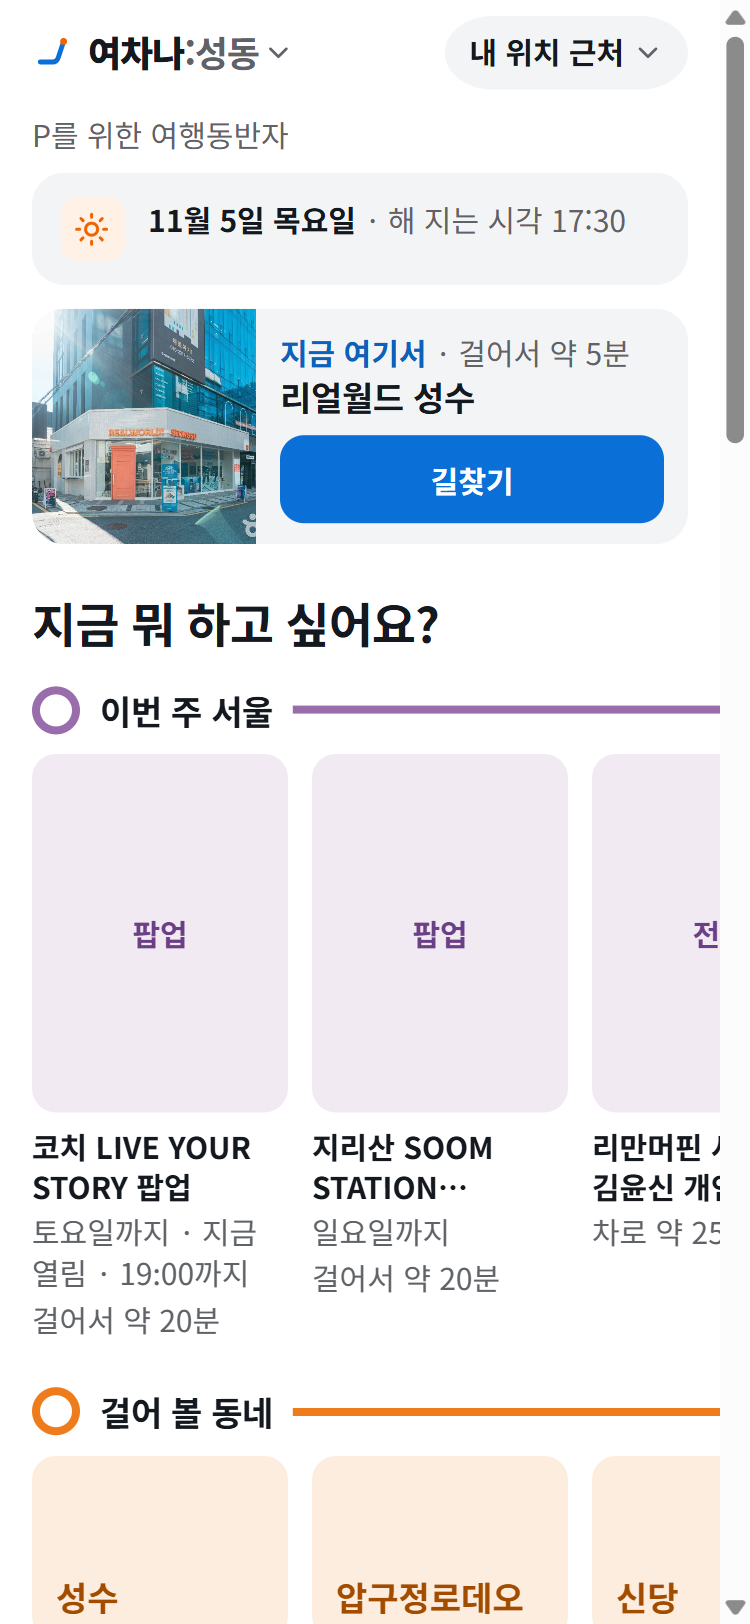
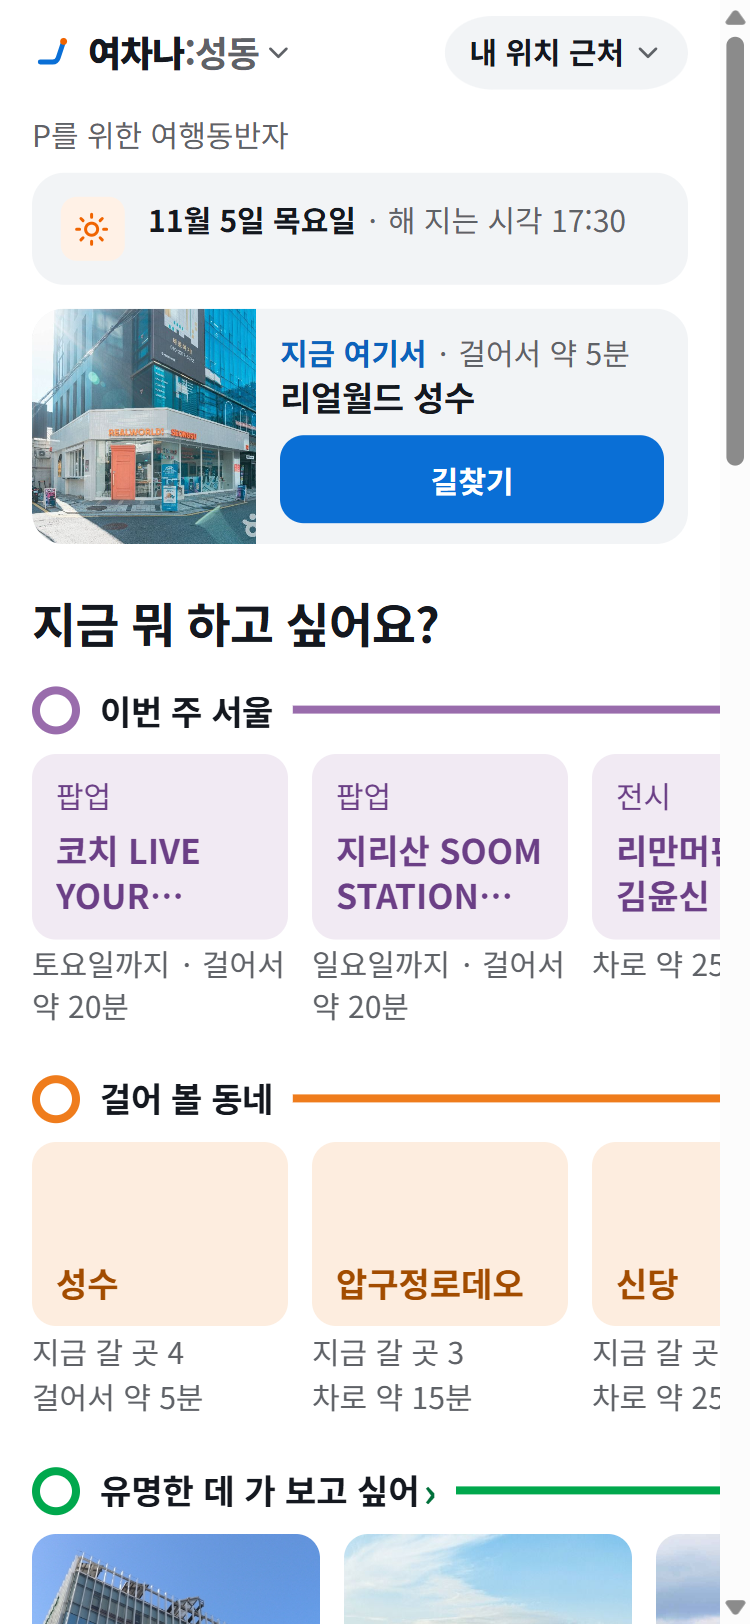
fix(seoul): 이번 주 서울 리뷰 MINOR 2 - 낮은 글자 타일·한 줄, 시간 없는 항목은 종류별 보통 시간·도착 때 열린 것만, 더마비 수동 제외(기준 D), 출처 글 누름 post (ADR-0118 Amendment 1)

diff --git a/apps/web/tests/weekly.test.ts b/apps/web/tests/weekly.test.ts
@@ -7,7 +7,7 @@ import { ORDER, SHELVES, buildShelves, inHood } from '../src/browse';
 import { BROWSE_COPY, browseCardSheet } from '../src/browse-view';
 import { openNow, type CultureItem, type Now } from '../src/culture';
 import { funItems, realItems } from '../src/fun';
-import { isWeek, weeklyItems, type WeekRow } from '../src/weekly';
+import { isWeek, usualTime, weeklyItems, type WeekRow } from '../src/weekly';
 
 const ROWS = FILE.items as WeekRow[];
 const now = (day: string, h: number, m = 0): Now => ({ day, weekday: new Date(`${day}T00:00:00Z`).getUTCDay(), minute: h * 60 + m });
@@ -15,8 +15,9 @@ const row = (over: Partial<WeekRow>): WeekRow => ({ id: 'wk-1-20261101', name: '
 const 성수 = { lat: 37.5446, lng: 127.0559 };
 
 describe('the shipped file (review/seoul-weekly, criteria-01)', () => {
-  it('17 things, each with a kind, dates, a Seoul place, https links and a reservation value', () => {
-    expect(ROWS.length).toBe(17);
+  it('16 things (17 kept, 더마비 left out by hand, Amendment 1), each with a kind, dates, a Seoul place, https links and a reservation value', () => {
+    expect(ROWS.length).toBe(16);
+    expect(ROWS.some((r) => /더마비/.test(r.name))).toBe(false);
     const ids = new Set<string>();
     for (const r of ROWS) {
       expect(ids.has(r.id)).toBe(false);
@@ -42,9 +43,9 @@ describe('the shipped file (review/seoul-weekly, criteria-01)', () => {
 describe('weeklyItems', () => {
   it('ended ones are not made (the day after the last end, none at all)', () => {
     const last = ROWS.map((r) => r.end).sort().at(-1)!;
-    expect(weeklyItems('2026-11-05').length).toBe(17);
+    expect(weeklyItems('2026-11-05').length).toBe(16);
     expect(weeklyItems('2026-11-09').every((i) => i.end >= '2026-11-09')).toBe(true);
-    expect(weeklyItems('2026-11-09').length).toBeLessThan(17);
+    expect(weeklyItems('2026-11-09').length).toBeLessThan(16);
     const after = new Date(Date.parse(`${last}T00:00:00Z`) + 864e5).toISOString().slice(0, 10);
     expect(weeklyItems(last).length).toBeGreaterThan(0);
     expect(weeklyItems(after)).toEqual([]);
@@ -73,7 +74,8 @@ describe("the 'week' shelf", () => {
     expect(s.map((x) => x.key)).toEqual(['week']);
     // 전시 goes to 'week', not to 전시·박물관; one not begun yet is shut
     expect(s[0].cards.map((c) => c.item.title).sort()).toEqual(['어느 팝업', '전시 하나']);
-    expect(s[0].cards[0].why).toMatch(/일요일까지/);
+    // the card says its dates only (Amendment 1)
+    expect(s[0].cards[0].why).toBe('일요일까지');
     // after its hours, and on the day after it ends: no shelf
     expect(buildShelves(items(rows, '2026-11-05'), now('2026-11-05', 20), 성수, 17 * 60 + 25)).toEqual([]);
     expect(buildShelves(items(rows, '2026-11-09'), now('2026-11-09', 14), 성수, 17 * 60 + 25).flatMap((x) => x.cards.map((c) => c.item.title))).toEqual([]);
@@ -113,6 +115,53 @@ describe("the 'week' shelf", () => {
   });
 });
 
+describe('a kind\'s usual hours where the posts gave none (Amendment 1, review m1)', () => {
+  const shelf = (day: string, h: number, m = 0) => buildShelves(weeklyItems(day), now(day, h, m), 성수, 17 * 60 + 25).flatMap((x) => x.cards.map((c) => c.item.title));
+  it('the table: a pop-up in a store by its hours, else 12–20; an exhibition 11–18 shut on Mondays; the rest 11–20', () => {
+    expect(usualTime({ kind: '팝업', place: '더현대 서울' })).toBe('10:30~20:00');
+    expect(usualTime({ kind: '팝업', place: '피앤알 성수' })).toBe('12:00~20:00');
+    expect(usualTime({ kind: '전시', place: '리만머핀' })).toBe('화-일 11:00~18:00');
+    expect(usualTime({ kind: '축제', place: 'aT센터' })).toBe('11:00~20:00');
+    expect(usualTime({ kind: '마켓', place: '면목역광장' })).toBe('11:00~20:00');
+    // a time the posts gave is kept
+    expect(weeklyItems('2026-11-05').find((i) => i.title.startsWith('코치'))!.time).toMatch(/^월~목/);
+  });
+  it('리만머핀 not on Monday 11-09 (9:00, 14:00), there on Tuesday 14:00', () => {
+    expect(shelf('2026-11-09', 9).some((t) => t.includes('리만머핀'))).toBe(false);
+    expect(shelf('2026-11-09', 14).some((t) => t.includes('리만머핀'))).toBe(false);
+    expect(shelf('2026-11-10', 14).some((t) => t.includes('리만머핀'))).toBe(true);
+  });
+  it('더현대 not at 9:00, there at 11:00; nothing that opens later today, nothing within half an hour of its close', () => {
+    expect(shelf('2026-11-05', 9).some((t) => t.includes('더현대'))).toBe(false);
+    expect(shelf('2026-11-05', 9)).toEqual([]);
+    expect(shelf('2026-11-05', 11).some((t) => t.includes('더현대'))).toBe(true);
+    // 커튼콜 가든 opens 17:00: not at 14:00, there at 18:00
+    expect(shelf('2026-11-05', 14).some((t) => t.includes('커튼콜'))).toBe(false);
+    expect(shelf('2026-11-05', 18).some((t) => t.includes('커튼콜'))).toBe(true);
+  });
+  it('a festival with no time (아이온2) by the table: there on 11-08 at 14:00', () => {
+    expect(shelf('2026-11-08', 14).some((t) => t.includes('아이온2'))).toBe(true);
+    expect(shelf('2026-11-08', 20).some((t) => t.includes('아이온2'))).toBe(false);
+  });
+});
+
+describe('the card (Amendment 1): a short text tile, its kind over its name, one line under it', () => {
+  it('no poster box; 「토요일까지 · 걸어서 약 …분」', async () => {
+    const { homeShelvesView } = await import('../src/browse-view');
+    const doc = new JSDOM('<!doctype html><body></body>').window.document;
+    const s = buildShelves(weeklyItems('2026-11-05', [], [row({ end: '2026-11-07' })]), now('2026-11-05', 14), 성수, 17 * 60 + 25);
+    const box = homeShelvesView(doc, s, { rest: '', walk: '', new: '', famous: '', food: '' }, []);
+    const card = box.querySelector('[data-shelf="week"] .bcard')!;
+    expect(card.querySelector('.bpic')).toBeNull();
+    expect(card.querySelector('.btile.t-week .bk')!.textContent).toBe('팝업');
+    expect(card.querySelector('.btile .bt')!.textContent).toBe('어느 팝업');
+    expect(card.querySelector('.nm')!.className).toBe('nm sr');
+    const metas = [...card.querySelectorAll('.meta')].map((m) => m.textContent);
+    expect(metas.length).toBe(1);
+    expect(metas[0]).toMatch(/^토요일까지 · 걸어서 약 \d+분$/);
+  });
+});
+
 describe('the card sheet', () => {
   it('its dates, a queue when there may be one, 출처 글 보기 to the post', () => {
     const doc = new JSDOM('<!doctype html><body></body>').window.document;
@@ -121,8 +170,9 @@ describe('the card sheet', () => {
     const text = sheet.textContent ?? '';
     expect(text).toContain('11.1~11.8');
     expect(text).toContain(BROWSE_COPY.onsite);
-    const more = [...sheet.querySelectorAll('a')].find((a) => a.dataset.blink === 'more')!;
+    const more = [...sheet.querySelectorAll('a')].find((a) => a.textContent === BROWSE_COPY.post)!;
     expect(more.textContent).toBe(BROWSE_COPY.post);
+    expect(more.dataset.blink).toBe('post');
     expect(more.getAttribute('href')).toBe('https://blog.naver.com/x/1');
   });
 });

diff --git a/apps/web/src/browse-view.ts b/apps/web/src/browse-view.ts
@@ -59,10 +59,11 @@ const tripText = (c: BrowseCard) => (c.trip ? (c.trip.walk ? TRAVEL_TEXT.walk : 
  * kind as a text card. With `later` its address is set only once the box is in view (the screen's watcher): the browser's
  * own lazy loading still asks for dozens of a shelf's hidden cards at once. */
 function pic(doc: Document, it: CultureItem, later?: IntersectionObserver): HTMLElement {
-  // a curated place or a 동네 has no picture: a short tile in its kind's colour, the name large on it (ADR-0115)
-  if (isFun(it)) {
-    const tile = el(doc, 'span', { class: `btile t-${it.fun.g.toLowerCase()}`, 'aria-hidden': 'true' });
-    tile.append(el(doc, 'span', { class: 'bk' }, it.fun.g === 'hood' ? it.kind : it.place.split(' · ')[0]), el(doc, 'span', { class: 'bt' }, it.title));
+  // a curated place or a 동네 has no picture: a short tile in its kind's colour, the name large on it (ADR-0115); the week's
+  // too, its kind over its name (ADR-0118 Amendment 1)
+  if (isFun(it) || isWeek(it)) {
+    const tile = el(doc, 'span', { class: `btile t-${isFun(it) ? it.fun.g.toLowerCase() : 'week'}`, 'aria-hidden': 'true' });
+    tile.append(el(doc, 'span', { class: 'bk' }, !isFun(it) || it.fun.g === 'hood' ? it.kind : it.place.split(' · ')[0]), el(doc, 'span', { class: 'bt' }, it.title));
     return tile;
   }
   const box = el(doc, 'span', { class: 'bpic' });
@@ -85,12 +86,19 @@ function pic(doc: Document, it: CultureItem, later?: IntersectionObserver): HTML
 /** A shelf's card: the picture or tile, the title, why now, how far; pressed, its sheet. */
 function cardLi(doc: Document, c: BrowseCard, later?: IntersectionObserver): HTMLElement {
   const b = el(doc, 'button', { type: 'button', class: 'bcard', 'data-action': 'browse-card', 'data-id': c.item.id });
-  b.append(pic(doc, c.item, later), el(doc, 'span', { class: isFun(c.item) ? 'nm sr' : 'nm' }, c.item.title));
+  const tile = isFun(c.item) || isWeek(c.item);
+  b.append(pic(doc, c.item, later), el(doc, 'span', { class: tile ? 'nm sr' : 'nm' }, c.item.title));
   // a curated place's tile says its kind already: under it, the rest of its line (where, or how many shows)
   const why = c.count !== undefined ? BROWSE_COPY.hoodCount(c.count) : isFun(c.item) ? c.why.split(' · ').slice(1).join(' · ') || c.why : c.why;
-  if (why) b.append(el(doc, 'span', { class: 'meta' }, why));
   const trip = tripText(c);
-  if (trip) b.append(el(doc, 'span', { class: 'meta' }, trip));
+  // the week's: one short line, 「토요일까지 · 걸어서 약 20분」
+  if (isWeek(c.item)) {
+    const line = [why, trip].filter(Boolean).join(' · ');
+    if (line) b.append(el(doc, 'span', { class: 'meta' }, line));
+  } else {
+    if (why) b.append(el(doc, 'span', { class: 'meta' }, why));
+    if (trip) b.append(el(doc, 'span', { class: 'meta' }, trip));
+  }
   const li = el(doc, 'li');
   li.append(b);
   return li;
@@ -260,7 +268,8 @@ export function browseCardSheet(doc: Document, items: readonly CultureItem[], id
   const acts = el(doc, 'div', { class: 'bc-acts' });
   acts.append(goA(doc, it, c, app, 'primary'));
   const more = linkUrl(it.link);
-  if (more) acts.append(el(doc, 'a', { class: 'tbtn', href: more, target: '_blank', rel: 'noopener', 'data-blink': 'more' }, fun ? BROWSE_COPY.kakao : isWeek(it) ? BROWSE_COPY.post : BROWSE_COPY.more));
+  // 출처 글 보기 counted apart from 자세히 (browse_link 'post')
+  if (more) acts.append(el(doc, 'a', { class: 'tbtn', href: more, target: '_blank', rel: 'noopener', 'data-blink': isWeek(it) ? 'post' : 'more' }, fun ? BROWSE_COPY.kakao : isWeek(it) ? BROWSE_COPY.post : BROWSE_COPY.more));
   sheet.append(acts, ...sources, el(doc, 'button', { type: 'button', class: 'sheet-close', 'data-action': 'close' }, COPY.close));
   layer.append(el(doc, 'div', { class: 'scrim', 'data-action': 'close' }), sheet);
   return layer;

diff --git a/apps/web/src/weekly.ts b/apps/web/src/weekly.ts
@@ -25,10 +25,20 @@ export type WeekItem = CultureItem & { week: { reserve: WeekRow['reserve']; kaka
 export const isWeek = (i: CultureItem): i is WeekItem => 'week' in i;
 
 const key = (s: string) => s.replace(/[^\p{L}\p{N}]/gu, '').toLowerCase();
+/** 백화점·몰 안 (the store's hours) */
+const MALL = /더현대|현대백화점|롯데백화점|신세계|갤러리아|AK플라자|롯데월드몰|타임스퀘어|스타필드|아이파크몰|IFC몰|코엑스몰/;
+/** A kind's usual hours, where the posts gave none (ADR-0118 Amendment 1): written as the day's list writes them, so openNow
+ * reads them — a pop-up in a department store or mall by the store's, else 12–20; an exhibition 11–18, shut on Mondays;
+ * a market, a festival or a new place 11–20. */
+export function usualTime(r: Pick<WeekRow, 'kind' | 'place'>): string {
+  if (r.kind === '팝업') return MALL.test(r.place) ? '10:30~20:00' : '12:00~20:00';
+  if (r.kind === '전시') return '화-일 11:00~18:00';
+  return '11:00~20:00';
+}
 /** The rows still running on `day` (not ended) and not in the day's own list (`own`, by name), as items. */
 export function weeklyItems(day: string, own: readonly CultureItem[] = [], rows: readonly WeekRow[] = FILE.items as WeekRow[]): WeekItem[] {
   const names = new Set(own.map((i) => key(i.title)));
   return rows
     .filter((r) => r.end >= day && !names.has(key(r.name)))
-    .map((r) => ({ id: r.id, title: r.name, kind: r.kind, place: r.place, gu: '', lat: r.lat, lng: r.lng, start: r.start, end: r.end, time: r.time, free: false, forAll: true, link: r.src, image: '', week: { reserve: r.reserve, kakao: r.kakao } }));
+    .map((r) => ({ id: r.id, title: r.name, kind: r.kind, place: r.place, gu: '', lat: r.lat, lng: r.lng, start: r.start, end: r.end, time: r.time || usualTime(r), free: false, forAll: true, link: r.src, image: '', week: { reserve: r.reserve, kakao: r.kakao } }));
 }

diff --git a/apps/web/tests/events.test.ts b/apps/web/tests/events.test.ts
@@ -568,6 +568,7 @@ describe('오늘 서울 둘러보기 — 받는 쪽', () => {
       { e: 'browse_card', d },
       { e: 'browse_link', link: 'go', d },
       { e: 'browse_link', link: 'more', d },
+      { e: 'browse_link', link: 'post', d },
       { e: 'browse_done', secs: 45, rows: 2, cards: 1, d },
       { e: 'browse_done', secs: 600, rows: 0, cards: 0, d },
     ];
@@ -581,6 +582,7 @@ describe('오늘 서울 둘러보기 — 받는 쪽', () => {
         { d, id: 'browse:card', e: 'browse_card', n: 1 },
         { d, id: 'browse:go', e: 'browse_link', n: 1 },
         { d, id: 'browse:more', e: 'browse_link', n: 1 },
+        { d, id: 'browse:post', e: 'browse_link', n: 1 },
         { d, id: 'browse:secs:45', e: 'browse_done', n: 1 },
         { d, id: 'browse:rows:2', e: 'browse_done', n: 1 },
         { d, id: 'browse:cards:1', e: 'browse_done', n: 1 },
@@ -590,7 +592,7 @@ describe('오늘 서울 둘러보기 — 받는 쪽', () => {
       ]),
     );
     for (const r of rows) expect(BROWSE_IDS).toContain(r.id);
-    expect(BROWSE_IDS).toHaveLength(4 + 121 + 11 + 3);
+    expect(BROWSE_IDS).toHaveLength(5 + 121 + 11 + 3);
     expect(aggregate(rows)).toEqual([]);
   });
 

diff --git a/apps/web/events/handler.ts b/apps/web/events/handler.ts
@@ -28,7 +28,7 @@ export const START_IDS: readonly string[] = [
   ...['gps', 'pick'].flatMap((how) => ['denied', 'outside', 'unavailable', 'none'].flatMap((why) => ['jeju', 'busan', 'gangwon', 'seoul', 'nation'].map((dest) => `start:${how}:${why}:${dest}`))),
 ];
 
-/** 오늘 서울 둘러보기 (ADR-0114 7): the counter ids of its events — `browse:open`, `browse:card`, `browse:go` / `browse:more`, and
+/** 오늘 서울 둘러보기 (ADR-0114 7): the counter ids of its events — `browse:open`, `browse:card`, `browse:go` / `browse:more` / `browse:post` (ADR-0118), and
  * for each time it was left one under each of `browse:secs:<0…600 in fives>`, `browse:rows:<0…10>`, `browse:cards:<0…2>` (so the
  * median stay and the share of openings with a card pressed can be read). Not places (`browse:` prefix). */
 export const BROWSE_IDS: readonly string[] = [
@@ -36,6 +36,7 @@ export const BROWSE_IDS: readonly string[] = [
   'browse:card',
   'browse:go',
   'browse:more',
+  'browse:post',
   ...Array.from({ length: 121 }, (_, i) => `browse:secs:${i * 5}`),
   ...Array.from({ length: 11 }, (_, i) => `browse:rows:${i}`),
   ...[0, 1, 2].map((n) => `browse:cards:${n}`),

diff --git a/apps/web/events/validate.ts b/apps/web/events/validate.ts
@@ -35,7 +35,7 @@ const START_FIELDS: Record<string, readonly string[]> = { start_view: ['e', 'd']
 /** the only fields of each 둘러보기 event: how long it was open (seconds in tens, 600 = ten minutes or more), shelves
  * scrolled sideways (0–7), cards pressed (0, 1, 2 = two or more); which link */
 const BROWSE_FIELDS: Record<string, readonly string[]> = { browse_open: ['e', 'd'], browse_card: ['e', 'd'], browse_link: ['e', 'd', 'link'], browse_done: ['e', 'd', 'secs', 'rows', 'cards'] };
-const LINKS = new Set(['go', 'more']);
+const LINKS = new Set(['go', 'more', 'post']);
 const SEASONS = new Set<string>(SEASON_KINDS);
 const FIELDS = new Set(['e', 'id', 'mood', 'sub', 'range', 'basis', 'area', 'dated', 'indoor', 'season', 'live0', 'past', 'from', 'age', 'op', 'dest', 'how', 'why', 'sgg', 'secs', 'rows', 'cards', 'link', 'd']);
 const whole = (v: unknown, max: number, step = 1) => typeof v === 'number' && Number.isInteger(v) && v >= 0 && v <= max && v % step === 0;

diff --git a/apps/web/src/browse.ts b/apps/web/src/browse.ts
@@ -55,6 +55,12 @@ function candOf(item: CultureItem, now: Now, origin: Point | null): Cand | null 
     return likelyOpen(item, now.minute, trip?.minutes ?? 0, month(now.day)) ? { item, km, trip, why: item.place } : null;
   }
   const t = parseCultureTime(item.time);
+  if (isWeek(item)) {
+    // the week's (ADR-0118 Amendment 1): open when one gets there, half an hour before it closes (fun.ts likelyOpen's rule) —
+    // never 「later today」; the card says its dates only (「토요일까지」)
+    const open = openNow(item, { ...now, minute: now.minute + (trip?.minutes ?? 0) }, t, 30) === 'open';
+    return open ? { item, km, trip, why: whyNow(item, now, null, 'unknown') } : null;
+  }
   const state = openNow(item, now, t, trip?.minutes ?? 0);
   return state === 'shut' ? null : { item, km, trip, why: whyNow(item, now, t, state) };
 }

diff --git a/apps/web/src/app.ts b/apps/web/src/app.ts
@@ -1444,7 +1444,7 @@ export function mountApp(doc: Document, deps: Deps): App {
   // 오늘 서울 둘러보기: 길찾기 or 자세히 on a card (sent now: the map app may take the page away)
   on(els.sheet, 'click', (e) => {
     const link = (e.target as Element | null)?.closest?.<HTMLElement>('a[data-blink]')?.dataset.blink;
-    if (link !== 'go' && link !== 'more') return;
+    if (link !== 'go' && link !== 'more' && link !== 'post') return;
     countBrowse({ e: 'browse_link', link, d: state.today });
     tracker.flush();
   });

diff --git a/apps/web/src/track.ts b/apps/web/src/track.ts
@@ -72,8 +72,8 @@ export interface UsageEvent {
   rows?: number;
   /** browse_done only: cards pressed, 0, 1, or 2 = two or more. */
   cards?: 0 | 1 | 2;
-  /** browse_link only: 길찾기 or 자세히. */
-  link?: 'go' | 'more';
+  /** browse_link only: 길찾기, 자세히, or 이번 주 서울's 출처 글 보기 (ADR-0118 Amendment 1). */
+  link?: 'go' | 'more' | 'post';
   /** Jeju calendar day, no time. */
   d: Day;
 }

diff --git a/apps/web/src/browse.css b/apps/web/src/browse.css
@@ -71,6 +71,7 @@
 .t-g6 { background: var(--t-g6); color: var(--t-g6-ink); }
 .t-g7 { background: var(--t-g7); color: var(--t-g7-ink); }
 .t-hood { background: var(--t-hood); color: var(--t-hood-ink); }
+.t-week { background: var(--t-g7); color: var(--t-g7-ink); }
 .btile + .sr + .meta { margin-top: 8px; }
 .bc-top .btile { flex: none; width: 104px; }
 

diff --git a/apps/web/review/seoul-weekly/predeploy-review.md b/apps/web/review/seoul-weekly/predeploy-review.md
@@ -1,0 +1,95 @@
+# 배포 전 독립 리뷰 — S2 「이번 주 서울」 (6ce4c091..41f73c8f)
+
+대상은 `git diff 815429979..41f73c8f`다. 기준으로 ADR-0118, `specs/seoul-weekly.md`, `review/seoul-weekly/criteria-01.md`·`audit-01-result.md`를 읽었다. 리뷰어는 Claude 독립 리뷰이고 소스는 고치지 않았다.
+
+결론: **MAJOR 0, MINOR 2, NIT 4.** 앱 쪽 날짜·순서·한 곳 한 번·링크·예산·캐시·다른 여행지는 맞다. 남는 것은 시간이 비어 있는 항목이 쉬는 날에도 보이는 점과, 데이터 한 건(올리브영 매장 안 판촉 팝업)의 기준 경계다.
+
+## 실행한 것
+
+- 검사:
+  - `npx tsc --noEmit` exit 0.
+  - vitest 세 모드: 기본 1767 passed / 106 skipped, `--mode nation` 1872 passed / 1 skipped, `--mode busan` 1790 passed / 83 skipped.
+- 스크래치 nation 빌드(`--outDir <scratch>`, 저장소 dist는 건드리지 않음):
+  - 진입 JS+CSS gzip **60,953 B**(예산 70,000 B).
+  - 이번 주 자료는 문화 청크 `culture-view-*.js`(gzip 24,354 B) 안에만 있고, 진입 파일에는 없다.
+- 탐침(vitest, 저장소 밖 파일): 용산 기준으로 11-05 14시, 11-07 13시, 11-08 22시, 11-09(월) 9시·14시, 11-11 23:54, 11-12, 12-25, 2027-01-01의 `week` 선반을 찍었다. 이름 중복 제거와 좌표 범위도 확인했다.
+- 자료 17건 전부를 판정 입력(처음 글·근거 글·카카오)과 함께 읽었다. 그중 의심 8건은 근거 글까지 대조했다.
+
+## 확인 (문제없음)
+
+- **끝난 것 제외·날짜 경계**:
+  - `weeklyItems`는 `end >= day`(문자열 YYYY-MM-DD, 끝나는 날 포함)일 때만 항목을 만든다. `openNow`는 `day < start` 또는 `day > end`면 닫힘이다.
+  - `day`는 `/api/culture`가 준 KST 날짜이고, 자정이 지나면 `askCulture`가 새 날 목록을 받아 다시 만든다.
+  - 탐침: 항목 수는 11-05 17건 → 11-09 8건 → 11-12 6건 → 12-25 1건(크리스마스 빌리지, 끝나는 날 12-31) → 2027-01-01 0건이다.
+  - 11-07이 끝나는 날인 코치 팝업은 11-07에 「오늘까지 · 지금 열림」으로 나오고, 11-08에는 없다.
+  - 시작 전 항목(크리스마스 빌리지, 11-10 시작)은 11-09에는 선반에 없고 11-12에는 있다.
+- **지금 열림**:
+  - 시간이 있으면 요일·시간으로 본다. 11-09(월) 9시에는 「11:00 시작」이 나오고, 11-11 23:54에는 선반이 없다.
+  - 시간이 없는 축제는 닫힘이다(아이온2, NIT 참조).
+  - 「지금 여기서」는 장소 목록만 쓰므로 이번 주 항목이 들어가지 않는다.
+- **선반 자리·순서**:
+  - `ORDER` 다섯 시간대가 스펙 표와 한 글자씩 같다.
+  - 선반 안 순서는 가까운 순이다(`order`에서 `isWeek`면 이름난 곳 가중을 빼고 거리 순).
+  - `SHELVES`에서 `week`가 무대·오늘만·전시보다 앞이라, 이번 주 항목은 `week` 선반만 가진다.
+  - `own`(무대·오늘만·전시)과 「동네」 시트, `realItems`(오늘 근처 목록)는 이번 주 항목을 빼고 고른다.
+  - 노선색은 `day`(보라)다.
+- **한 곳 한 번**:
+  - 그날 서울시·KOPIS 목록에 같은 이름(기호·공백 뺀 것)이 있으면 그 항목은 넣지 않는다. 탐침: 「언리미티드 에디션 2026」을 오늘 목록에 넣으면 이번 주 쪽은 0건이 된다.
+  - 같은 장소의 다른 팝업(AK플라자 홍대 2건, 더현대 서울 2건)은 서로 다른 항목이라 둘 다 나온다.
+- **카드 시트 링크**:
+  - 「출처 글 보기」는 `linkUrl`(http·https만)을 거친다. 모두 `target="_blank" rel="noopener"`라 기존 「자세히」와 같다.
+  - `ship.mjs`가 `src`를 `https://`로만 받는다. 17건 모두 https다(네이버 블로그 13, 언론사 4).
+- **진입 예산·서비스 워커**:
+  - 자료는 JSON import로 문화 청크에 묶인다. 자료가 바뀌면 청크 해시가 바뀌고, 그에 따라 `sw.js` precache 목록과 VERSION도 바뀐다.
+  - 따로 내려받는 파일이나 `?v=`는 없다. 자료를 갱신하면 빌드·배포 한 번으로 퍼진다.
+- **다른 여행지**: 이번 주 항목은 서울 `fetchCulture` 성공 때만 생긴다. `weekly.ts`를 import하는 곳은 문화 청크 네 파일(browse·browse-view·culture-view·fun)뿐이다. 제주·부산·자동 지역 테스트는 그대로 통과한다.
+- **좌표**: 17건 모두 서울 범위 안이다. 장소 이름과 카카오 장소도 맞았다(근거 글 대조). 엉뚱한 지점은 찾지 못했다.
+
+## 수집·판정 과정: 사전등록 기준과 다른 세 가지가 결과를 오염시켰나
+
+결론: **오염되지 않았다.** 다만 다음 회차 기준에는 적어 둘 것.
+
+1. **옮겨 적기 지시에 「끝나는 날이 11-05 전이면 옮기지 않음」이 들어갔다**(스펙에 없음). 판정 B와 같은 방향의 거르기라 뺄 것만 일찍 빼고, 잘못된 keep을 만들 수는 없다. 옮겨 적기가 날짜를 잘못 읽어 살아 있는 것을 뺐을 가능성(놓침)은 남는다. 그 단계는 감사 대상이 아니라 크기를 모른다.
+2. **판정 4개·감사 2개 에이전트로 나눴다**(기준은 「한 번」). 나눈 각 묶음은 같은 기준 전문을 받았고, 한 번씩만 돌렸다. 감사 표본은 판정 keep 17건 전부와 drop 63건이다. 나눈 경계와 상관없이 일치는 80/80이다.
+   - drop 63 가운데 25건은 카카오가 비어 A로 자명하게 빠진 것이다. 그래서 자명하지 않은 표본 55건(keep 17 + 카카오 있는 drop 38)만 따로 보면 55/55다. 일치율이 자명한 건수로 부풀지는 않았다.
+3. **옮겨 적기는 Sonnet이 했다**(판정·감사는 기준대로 Opus). 판정·감사는 옮긴 칸만 보지 않고 처음 글·근거 글 10건·카카오를 함께 본다. 그래서 옮겨 적기 오류는 놓침으로만 이어진다.
+
+한계(감사가 원리적으로 못 잡는 것): 판정과 감사가 같은 입력과 같은 규칙을 보므로, 규칙 경계의 해석 차이(아래 m2)나 입력 글 자체의 오류는 둘 다 같은 쪽으로 틀린다.
+
+## MINOR
+
+### m1. 시간이 비어 있는 항목은 쉬는 날·여는 시간 전에도 「선반에」 나온다 (「지금 갈 수 없는 곳」)
+- 위치:
+  - `src/culture.ts:132-134`(`openNow`: 시간이 없으면 19–9시만 닫힘, 그 밖은 `unknown`으로 남김).
+  - 자료 17건 가운데 `time: ""` 7건: 리만머핀, 지리산 SOOM, 마도카, 파우, 크리스마스 빌리지, 언리미티드 에디션, 아이온2.
+- 탐침:
+  - **리만머핀 서울 김윤신 개인전**(갤러리, 보통 일·월 휴관)이 11-09(월) 14시와 9시에 선반 첫 장으로 나온다.
+  - 더현대 서울 팝업 2건은 백화점이 10:30에 여는데 9시에 나온다.
+  - 카드의 왜 줄은 비어 있거나 「수요일까지」뿐이라 「지금 열림」이라고 말하지는 않는다. 그래도 맨 앞 카드가 문 닫은 갤러리다.
+- 고칠 방향:
+  - (a) 판정이 `time`에 쉬는 요일도 적게 하고(「화~토 10:00~18:00」, `parseCultureTime`이 읽는 꼴), 근거 글에 시간이 없으면 전시·갤러리는 keep 조건에서 뺀다(다음 기준 criteria-02).
+  - (b) 앱에서 시간이 없는 `week` 항목은 선반 뒤로 보낸다.
+  - (c) 백화점·몰 안 팝업은 카카오 카테고리 「백화점」이면 10:30–20:00을 기본값으로 둔다.
+
+### m2. 「더마비 버터베어 팝업스토어」(올리브영 홍대타운점)는 기준 D의 경계에 걸린다
+- 위치: `data/seoul/weekly-seoul.json`(`wk-200330921-20261101`). 판정 근거는 「체험형 브랜드 팝업」이다.
+- 근거 글:
+  - 신제품 출시 기념, 대형 체인 드럭스토어 매장 안에서 연다.
+  - 「3만 원 이상 구매 시 헤어핀 증정」, 「보습 퀴즈 참여 시 샘플」.
+- 기준 D는 「판매만 하는 매대·행사장 할인전은 뺀다」고 하면서 「브랜드 팝업은 싣는다」고 한다. 체인 매장 안 판촉 공간을 「일부러 가서 즐길 만한」(E) 것으로 보기 어렵다. 판정과 감사가 같은 경계를 같은 쪽으로 읽어서 감사가 잡지 못했다.
+- 고칠 방향: 이번 회차 자료는 기준상 유효하므로 그대로 둘 수 있다. 다음 기준에 「체인 매장(올리브영·다이소 등) 안 팝업은 별도 공간·체험이 근거로 확인될 때만」을 더한다. 주인이 이번에 뺄지 정한다.
+
+## NIT
+
+- n1. 「아이온2 서비스 1주년 기념 축제」는 시간이 비어 있어 `openNow`의 「시간 없는 축제는 닫힘」 규칙 때문에 **한 번도 나오지 않는다**(죽은 줄). 근거도 뉴스 한 줄뿐이고, 게임사 이용자 행사는 사전 신청인 경우가 많다(C).
+- n2. 이번 주 항목은 `fetchCulture`가 성공해야만 생긴다. 서울시 API가 실패하거나 204면 자료가 앱 안에 있어도 「이번 주 서울」 선반이 통째로 빠진다. 설계 선택이지만, 자료가 정적이니 실패 때도 실을 수 있다.
+- n3. 「한 곳 한 번」(`homeShelves`의 `taken`)은 즐길 거리 카드의 카카오 id를 `link`에서 읽는다. 이번 주 항목의 `link`는 출처 글이라 그 장소의 카카오 id(`week.kakao`)가 빠진다. 지금 17건에는 기분 장소와 같은 「곳」이 없다(팝업은 행사라 다른 것). 앞으로 「새로 연 곳」이 실리면 기분 선반과 겹칠 수 있다.
+- n4. 카드 시트의 「출처 글 보기」 누름은 기존 「자세히」와 같은 `data-blink="more"`로 센다. 그래서 분석 보고에서 둘이 섞인다. 시트에는 카카오맵 링크가 없는데, 출처 줄에는 「장소: 카카오맵」이 적힌다.
+
+## 처리 (2026-11-05, ADR-0118 Amendment 1)
+
+- m1: 해소. 시간이 빈 항목은 종류별 보통 시간(`weekly.ts usualTime`), 도착 시각에 열린 것만. 리만머핀 11-09(월)·더현대 9시가 안 나오는 테스트(`tests/weekly.test.ts`).
+- m2: 해소. 더마비 수동 제외 1건(`ship.mjs` `EXCLUDE`, `audit-01-result.md`).
+- n1: m1로 해소(아이온2는 11–20시로 11-08에 나온다).
+- n4: 해소. 「출처 글 보기」는 `browse_link` `post`.
+- n2·n3: **미룸**(다음 회차). n2 목록 실패 때도 이번 주 선반 싣기, n3 이번 주 항목의 카카오 id(`week.kakao`)를 「한 곳 한 번」에 넣기.

diff --git a/specs/seoul-weekly.md b/specs/seoul-weekly.md
@@ -44,7 +44,7 @@
 | `name` | 이름(글에 적힌 대로) |
 | `kind` | `팝업` · `새로 연 곳` · `전시` · `마켓` · `축제` |
 | `start`·`end` | `YYYY-MM-DD`. 새로 연 곳은 `start` = 문 연 날, `end` = 문 연 날 + 27일(4주 동안만 「새로」) |
-| `time` | 여는 시간(글에 있으면 `11:00~20:00` 꼴, 요일 묶음 허용 — `culture.ts parseCultureTime`이 읽는 꼴), 없으면 `''` |
+| `time` | 여는 시간(글에 있으면 `11:00~20:00` 꼴, 요일 묶음 허용 — `culture.ts parseCultureTime`이 읽는 꼴), 없으면 `''` (앱은 종류별 보통 시간으로 본다, Amendment 1) |
 | `place`·`lat`·`lng`·`kakao` | 카카오 장소 이름·좌표(소수 다섯째 자리)·카카오맵 링크 |
 | `src` | 출처 글 링크(판정이 고른 대표 글 하나, https) |
 | `reserve` | `none`(예약 없이) · `onsite`(현장 대기·현장 접수) |
@@ -52,7 +52,7 @@
 ## 앱
 
 - `src/weekly.ts`(문화 청크): 자료를 그날 목록의 항목(`CultureItem` + `week` 칸)으로 바꾼다. `end`가 오늘보다 앞이면 넣지 않는다. 그날 서울시·KOPIS 목록에 같은 이름(공백 뺀 것)이 있으면 넣지 않는다.
-- `browse.ts`: 선반 키 `week`. 채우는 순서(`SHELVES`)는 무대·오늘만·전시보다 앞이라 이번 주 항목은 이 선반만 가진다. 지금 열림은 `openNow`(기간·시간, 시간 없으면 시간대 규칙). 「동네」 시트에는 넣지 않는다(출처가 섞이지 않게).
+- `browse.ts`: 선반 키 `week`. 채우는 순서(`SHELVES`)는 무대·오늘만·전시보다 앞이라 이번 주 항목은 이 선반만 가진다. 지금 열림은 `openNow`(기간·시간)로 도착 시각에 열려 있고 닫기 30분 전까지일 때만(Amendment 1). 시간이 없으면 종류별 보통 시간: 팝업 백화점·몰 안 10:30–20:00, 그 밖 12–20, 전시 11–18(월요일 휴관), 마켓·축제·새로 연 곳 11–20. 「동네」 시트에는 넣지 않는다(출처가 섞이지 않게).
 - **시간대 순서표 안 자리**:
 
 | 시간대 | 순서 |
@@ -63,7 +63,7 @@
 | night | stage, g7, g2, **week**, g1, g5, hood, g4, g6, today, exhibit |
 | late | g5, g2, g1, g7, hood, stage, **week**, g4, g6, today, exhibit |
 
-- **카드**: 그날 목록 카드와 같다(그림이 없으면 종류 글자 카드). 선반 안 순서는 가까운 순서다(그날 목록의 「이름난 곳 먼저」는 쓰지 않음, 내 위치 먼저). 줄은 `whyNow`(「일요일까지 · 지금 열림 · 20:00까지」). 노선색은 오늘 행사(보라)와 같다.
+- **카드**(Amendment 1): 즐길 거리처럼 낮은 글자 타일(종류 위 + 이름 두 줄), 아래 한 줄 「토요일까지 · 걸어서 약 20분」. 선반 안 순서는 가까운 순서다(그날 목록의 「이름난 곳 먼저」는 쓰지 않음, 내 위치 먼저). 줄은 `whyNow`(「일요일까지 · 지금 열림 · 20:00까지」). 노선색은 오늘 행사(보라)와 같다.
 - **카드 시트**: 이름·장소, 왜 지금, 기간(「11.1~11.16」), 오늘 시간(읽히면), 현장 대기면 「현장 대기가 있을 수 있어요」, 거리, 길찾기, 「출처 글 보기」(src). 출처 줄 「정보: 네이버 블로그·뉴스 · 장소: 카카오맵」.
 - **끝난 것**: `end` < 오늘이면 항목이 생기지 않는다. 시작 전이면 `openNow`가 닫힘으로 본다.
 
